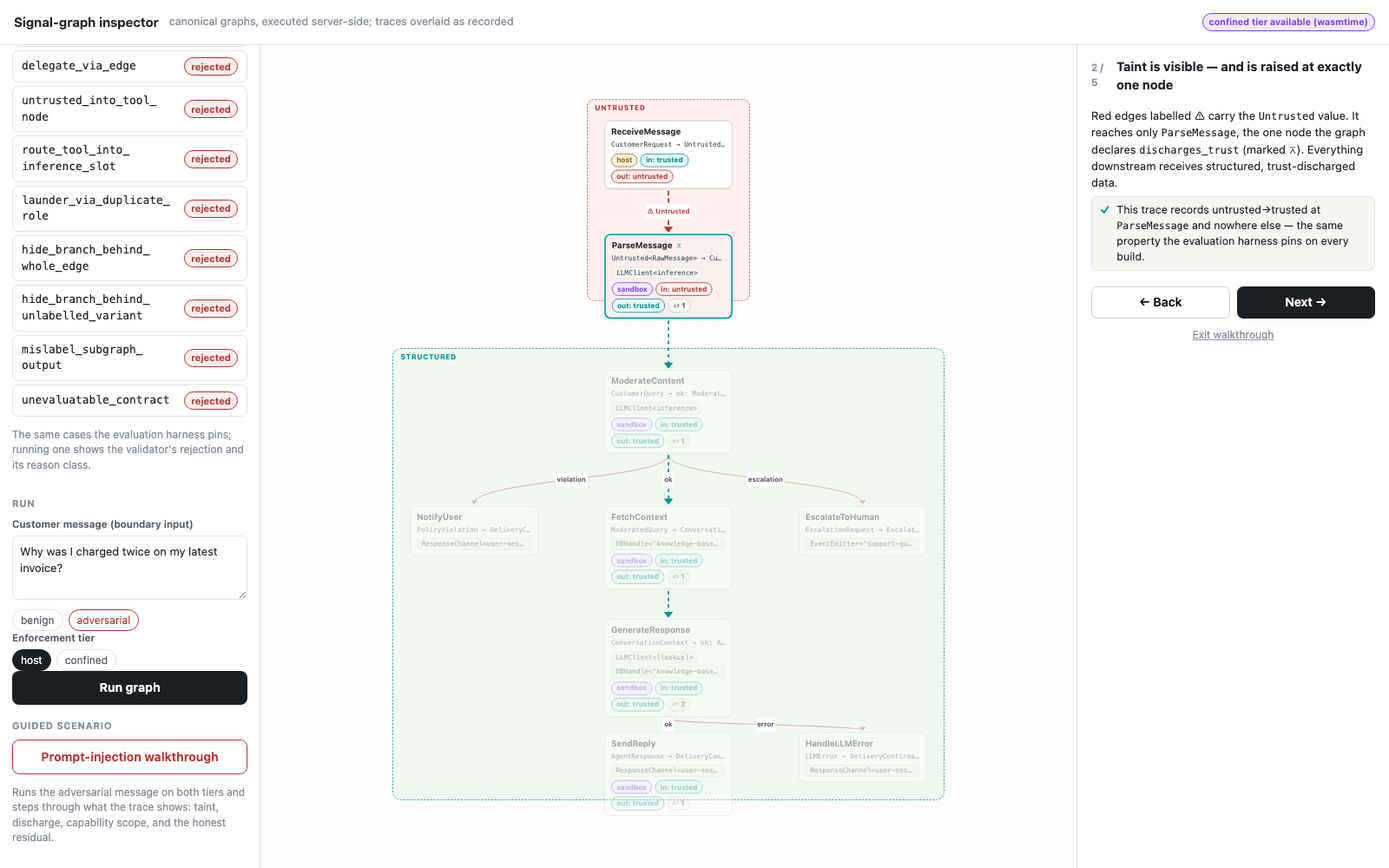
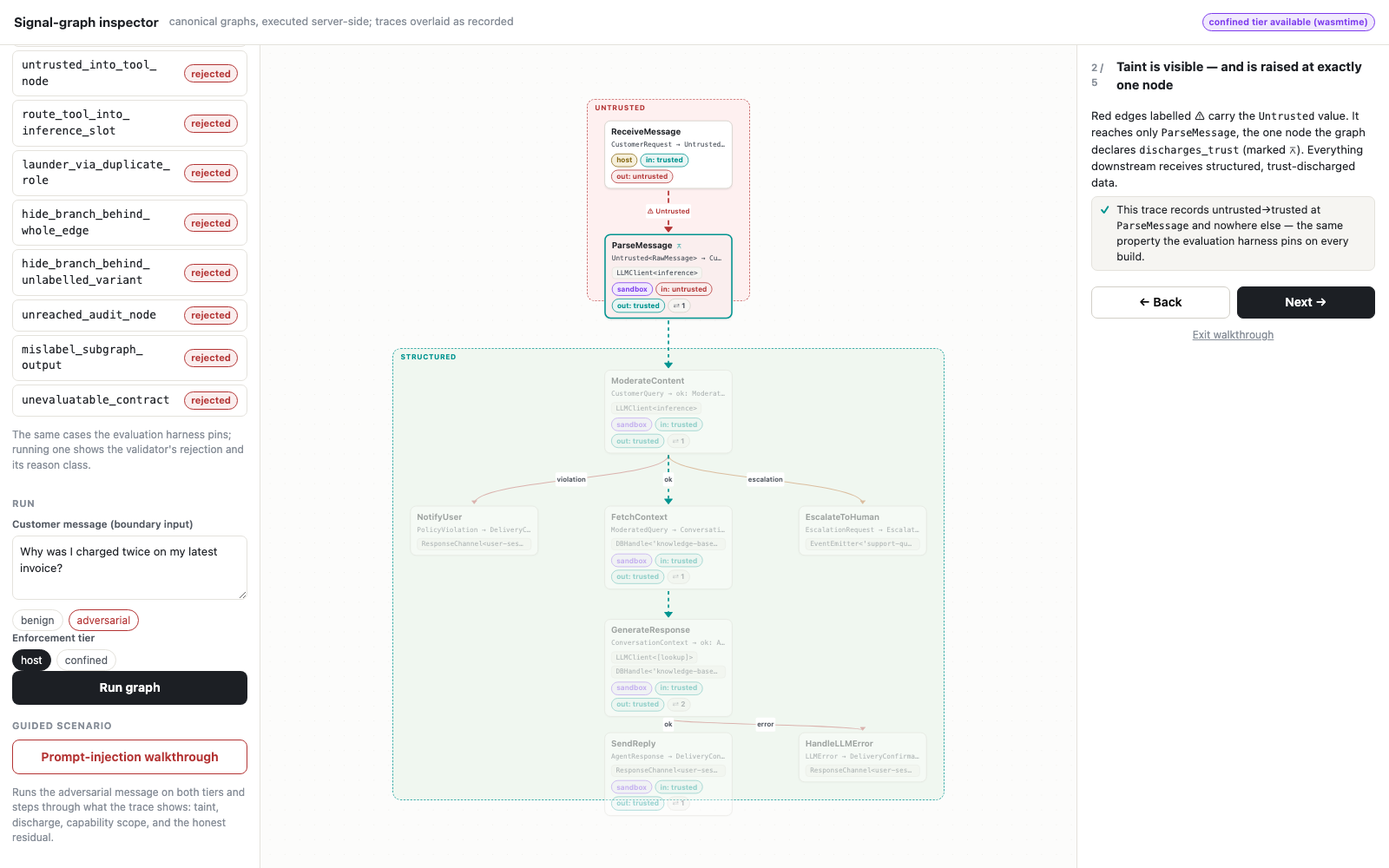
Fix review round K's artifact findings: entry by file order, and enum contracts
The runtime took the first node in file order whose input matched the
boundary type as its entry, and the validator had no notion of an entry. A
validated T -> T gate (an audit step, a filter) listed after the node it
guards was skipped silently, a node no edge reached validated and never ran,
and a boundary fan-out dropped a branch. A graph now runs from exactly one
entry, the node no edge reaches, which must take the boundary input; the
validator rejects anything else and the runtime chooses the entry the same
way. Pinned as unreached_audit_node under a new reason class, "one entry
node" (found by review).

A contract compared an Enum field raw against string literals, so no literal
ever matched `intent`: an exhaustive membership postcondition failed and
blamed the body, and `intent == 'billing_question'` was false on a billing
query. A member now compares as its value; tests use a real Intent and fail
without the fix. §3.3.3 now says "membership in a set of literals" rather than
"variant membership", and that a postcondition sees the payload, not the
variant that carried it.

Minor findings left as they are: a principal chain extended inside a
sub-graph does not reach the parent's downstream nodes (no paper claim), a
child cannot declare its own capability identities (fails loudly), and the
trace names the parent's capability type for a narrowed crossing.

Changed region(s): [[0.0, 0.062, 0.1875, 0.372]]

diff --git a/tests/test_validate_graphs.py b/tests/test_validate_graphs.py
@@ -285,6 +285,47 @@ class TestEdgesAreAPath(unittest.TestCase):
         self.assertTrue(any("form a cycle" in e for e in errors), errors)
 
 
+class TestOneEntryNode(unittest.TestCase):
+    """A graph runs from the one node no edge reaches (round K, 30 September 2026:
+    the runtime chose its entry by file order, so a validated gate listed after the
+    node it guards was skipped, and an unreached node validated and never ran)."""
+
+    def _errors(self, nodes: list[dict], edges: list[dict]) -> list[str]:
+        graph = {
+            "name": "Pipeline",
+            "parameters": ["RawInput"],
+            "capabilities": [],
+            "nodes": nodes,
+            "data_edges": edges,
+        }
+        with tempfile.TemporaryDirectory() as td:
+            return validate_files(_write({"p.json": graph}, Path(td)))
+
+    def test_a_gate_before_its_guarded_node_is_the_entry_in_any_order(self):
+        nodes = [
+            {"name": "Guarded", "inputs": ["RawInput"], "output": "Out"},
+            {"name": "Gate", "inputs": ["RawInput"], "output": "RawInput"},
+        ]
+        self.assertEqual(self._errors(nodes, [{"from": "Gate", "to": "Guarded"}]), [])
+
+    def test_two_unreached_nodes_are_rejected(self):
+        nodes = [
+            {"name": "A", "inputs": ["RawInput"], "output": "Out"},
+            {"name": "B", "inputs": ["RawInput"], "output": "Other"},
+        ]
+        errors = self._errors(nodes, [])
+        self.assertTrue(any("reached by no edge" in e for e in errors), errors)
+
+    def test_the_entry_must_take_the_boundary_input(self):
+        nodes = [
+            {"name": "A", "inputs": ["Mid"], "output": "Out"},
+            {"name": "B", "inputs": ["Out"], "output": "Done"},
+            {"name": "C", "inputs": ["RawInput"], "output": "Mid"},
+        ]
+        errors = self._errors(nodes, [{"from": "A", "to": "B"}, {"from": "B", "to": "C"}])
+        self.assertTrue(any("does not take the boundary input" in e for e in errors), errors)
+
+
 class TestCrossGraphCapabilityNarrowing(unittest.TestCase):
     def _child_graph(self, param: str) -> dict:
         return {

diff --git a/scripts/graph_validator.py b/scripts/graph_validator.py
@@ -227,6 +227,7 @@ def _validate_semantic(graph: dict, path: Path, errors: list[str]) -> dict[str, 
             errors.append(f"{path.name}: boundary data input {p!r} declared but never consumed")
 
     _validate_edges(path, node_map, caps, edges, errors)
+    _validate_entry(path, node_map, data_params, edges, errors)
     _validate_node_trust_flow(path, node_map, caps, errors)
     _validate_identities(path, node_map, caps, errors)
     _validate_layout(path, node_map, graph.get("layout", {}), errors)
@@ -292,6 +293,34 @@ def _validate_identities(
                     f"{cap_type!r} it does not hold; an identity may be declared only for "
                     f"a capability the node's `inputs` names"
                 )
+
+
+def _validate_entry(
+    path: Path,
+    node_map: dict[str, dict],
+    data_params: list[str],
+    edges: list[dict],
+    errors: list[str],
+) -> None:
+    """A graph runs from one entry: the only node no data edge reaches, taking the
+    boundary input. The runtime once took the first node in file order whose input
+    matched the boundary type, so a validated `T → T` gate (an audit step, a filter)
+    listed after the node it guards was skipped silently, and a node no edge reached
+    validated and never ran (round K, 30 September 2026). With one entry and no
+    cycle, every node is reachable from it."""
+    targets = {e["to"] for e in edges if isinstance(e, dict) and "to" in e}
+    entries = sorted(n for n in node_map if n not in targets)
+    if len(entries) != 1:
+        errors.append(
+            f"{path.name}: {len(entries)} nodes are reached by no edge ({entries}); a graph "
+            f"runs from exactly one entry node, so any other would never run"
+        )
+        return
+    if len(data_params) == 1 and data_params[0] not in node_map[entries[0]]["inputs"]:
+        errors.append(
+            f"{path.name}: entry node {entries[0]!r} does not take the boundary input "
+            f"{data_params[0]!r}"
+        )
 
 
 def _validate_edges(

diff --git a/tests/test_poc_contracts.py b/tests/test_poc_contracts.py
@@ -26,7 +26,7 @@ from poc.demo import BENIGN, STORES
 from poc.graph import AssemblyError, assemble, load_graph_dict
 from poc.llm import StubLLM
 from poc.runtime import execute
-from poc.values import CustomerRequest
+from poc.values import CustomerRequest, Intent
 
 # ── The vocabulary, and its ceiling ──────────────────────────────────────────
 
@@ -43,6 +43,28 @@ def test_the_four_permitted_forms_parse_and_evaluate():
     assert parse("intent in ['billing_question', 'refund']").holds(value)
     assert parse("present(text)").holds(value)
     assert parse("len(text) > 0").holds(value)
+
+
+def test_a_real_intent_compares_as_its_value():
+    """`intent` is an `Enum` at run time, not the string the box above holds. Compared
+    raw, no literal matched it: an exhaustive membership contract failed and blamed
+    the body, and `intent == 'billing_question'` was false on a billing query
+    (round K, 30 September 2026)."""
+    value = _Box(intent=Intent.BILLING_QUESTION)
+    every = ", ".join(f"'{i.value}'" for i in Intent)
+    assert parse(f"intent in [{every}]").holds(value)
+    assert parse("intent == 'billing_question'").holds(value)
+    assert not parse("intent != 'billing_question'").holds(value)
+    assert not parse("intent == 'unknown'").holds(value)
+
+
+def test_an_intent_contract_holds_on_a_real_run():
+    graph = load_graph_dict("customer-support")
+    for node in graph["nodes"]:
+        if node["name"] == "ParseMessage":
+            node["ensures"] = ["intent in [" + ", ".join(f"'{i.value}'" for i in Intent) + "]"]
+    assembled = assemble(graph, backend=StubLLM(), stores=STORES)
+    execute(assembled, CustomerRequest(session_id="user-session", body=BENIGN))
 
 
 def test_a_predicate_outside_the_vocabulary_is_rejected():

diff --git a/poc/evaluate.py b/poc/evaluate.py
@@ -138,6 +138,7 @@ REASON_CAPABILITY_DATA = "capability as data"
 REASON_SINK = "sink rule"
 REASON_SUM_ROLE = "one variant per port"
 REASON_VARIANT = "variant completeness"
+REASON_ENTRY = "one entry node"
 
 # A reason class is identified by phrases, *any* of which in one of the
 # validator's errors places that error in the class; each phrase is specific to
@@ -154,6 +155,7 @@ REASON_SIGNATURES: dict[str, tuple[str, ...]] = {
     # A port names exactly one variant, and every variant of a labelled sum has one.
     REASON_SUM_ROLE: ("duplicate variant role", "has no port to leave on"),
     REASON_VARIANT: ("whole-output edge never fires", "but no edge consumes it"),
+    REASON_ENTRY: ("are reached by no edge", "does not take the boundary input"),
     REASON_CROSS_GRAPH: (
         "declared output",
         "terminal output types",
@@ -311,6 +313,16 @@ CORPUS: tuple[Case, ...] = (
         "The same swallowed violation by another spelling: `ModerateContent`'s violation "
         "variant loses its role, so no port carries it and variant completeness, which "
         "sweeps roles, never saw it. The type parser rejects a partly labelled sum.",
+        found_by_review=True,
+    ),
+    Case(
+        "unreached_audit_node",
+        "mutation",
+        REJECTED,
+        REASON_ENTRY,
+        "A second node takes the boundary input and no edge reaches it. The runtime "
+        "chose its entry by file order, so one of the two was skipped silently; a graph "
+        "runs from exactly one entry node, which every other node is reached from.",
         found_by_review=True,
     ),
     Case(

diff --git a/poc/variants.py b/poc/variants.py
@@ -203,6 +203,25 @@ def hide_branch_behind_unlabelled_variant(graph: dict) -> dict:
     return g
 
 
+def unreached_audit_node(graph: dict) -> dict:
+    """A second node taking the boundary input, reached by no edge.
+
+    `AuditRequest` consumes the raw `CustomerRequest` beside `ReceiveMessage`. Every
+    edge type-checks, and the runtime chose its entry by file order, so it ran
+    whichever of the two came first and silently skipped the other — an audit step
+    listed after the node it guards never ran, and nothing said so. A graph runs
+    from exactly one entry node."""
+    g = copy.deepcopy(graph)
+    g["nodes"].append(
+        {
+            "name": "AuditRequest",
+            "inputs": ["CustomerRequest", "EventEmitter<'support-queue'>"],
+            "output": "EscalationTicket",
+        }
+    )
+    return g
+
+
 def mislabel_subgraph_output(platform: dict) -> dict:
     """Make a sub-graph node lie about what it emits at its boundary.
 
@@ -256,6 +275,7 @@ UNSAFE_VARIANTS = {
     "launder_via_duplicate_role": launder_via_duplicate_role,
     "hide_branch_behind_whole_edge": hide_branch_behind_whole_edge,
     "hide_branch_behind_unlabelled_variant": hide_branch_behind_unlabelled_variant,
+    "unreached_audit_node": unreached_audit_node,
     "mislabel_subgraph_output": mislabel_subgraph_output,
     "unevaluatable_contract": unevaluatable_contract,
 }

diff --git a/poc/runtime.py b/poc/runtime.py
@@ -315,15 +315,24 @@ def _run_subgraph(
 
 
 def _entry_node(graph: AssembledGraph) -> Node:
-    """The node that consumes the graph's boundary data parameter."""
+    """The graph's one entry: the node no edge reaches, which takes the boundary
+    data parameter. Chosen by the edges, never by file order, which once let a
+    validated gate listed after the node it guards be skipped."""
     data_params = [p for p in graph.parameters if p not in graph.capabilities]
     if len(data_params) != 1:
         raise ExecutionError(f"expected exactly one boundary data parameter, got {data_params}")
     boundary = data_params[0]
-    for node in graph.nodes.values():
-        if graph.data_input_type(node) == boundary:
-            return node
-    raise ExecutionError(f"no node consumes boundary input {boundary!r}")
+    targets = {e.dst_node for e in graph.edges}
+    entries = [n for name, n in graph.nodes.items() if name not in targets]
+    if len(entries) != 1:
+        raise ExecutionError(
+            f"expected exactly one entry node, got {sorted(n.name for n in entries)}"
+        )
+    if graph.data_input_type(entries[0]) != boundary:
+        raise ExecutionError(
+            f"entry node {entries[0].name!r} does not consume boundary input {boundary!r}"
+        )
+    return entries[0]
 
 
 def execute(

diff --git a/poc/contracts.py b/poc/contracts.py
@@ -32,6 +32,7 @@ from __future__ import annotations
 
 import re
 from dataclasses import dataclass
+from enum import Enum
 
 # Blame: which side a violation indicts. A contract that says only "something is
 # wrong" is much less useful than one that says which of the two parties to a
@@ -122,6 +123,12 @@ def _resolve(value: object, path: str) -> object:
             if not hasattr(current, part):
                 return _MISSING
             current = getattr(current, part)
+    # A closed-set field is an Enum at run time, and a contract literal is a string,
+    # so compared raw, no literal ever matched: an exhaustive `intent in [...]` came
+    # out false and blamed the body (round K, 30 September 2026). A member compares
+    # as its value, which is how the graph and the WIT enum both spell it.
+    if isinstance(current, Enum):
+        return current.value
     return current
 
 

diff --git a/tests/test_poc_runtime.py b/tests/test_poc_runtime.py
@@ -150,5 +150,6 @@ def test_a_value_no_edge_carries_is_refused_not_dropped():
     swallowed silently (round J, 30 September 2026). It is now refused."""
     graph = assemble(load_graph_dict("customer-support"), backend=StubLLM(), stores=STORES)
     graph.edges = [e for e in graph.edges if e.src_port != "violation"]
+    del graph.nodes["NotifyUser"]  # else it is a second entry, refused before the run
     with pytest.raises(ExecutionError, match="no edge carries"):
         execute(graph, CustomerRequest(session_id="user-session", body="about self-harm"))

diff --git a/AGENTS.md b/AGENTS.md
@@ -49,7 +49,7 @@ This is primarily a **writing project**: the papers are the outputs that matter.
 | `poc/inspector_api.py` | The graph inspector's execution API: a stdlib HTTP layer over the existing runtime (serves `graphs/*.json` byte-for-byte, runs corpus cases, returns traces / classified rejections, drives the injection scenario). Transport, not semantics. |
 | `ui/` | The graph inspector (Next.js): renders the canonical graphs, triggers real both-tier runs server-side, overlays traces. **Inspector, not editor** — it cannot author graphs. Own lockfile; never touched by `make build`. See `ui/README.md`. |
 | `.pre-commit-config.yaml` | Pre-commit hooks (ruff, graph validation, pytest, `make build`, citation check, freeze guard, hedge guard). Install once per clone with `uv run pre-commit install`. |
-| `poc/contracts.py` | The contract language: a **closed** predicate vocabulary (comparison, variant membership, presence, `len`) with Design-by-Contract **blame** (Meyer; carried to higher-order values by Racket's contracts) — a failed `requires` indicts the wiring, a failed `ensures` the body. The ceiling is the design; widening it needs a solver and forfeits the dependency-free checker. |
+| `poc/contracts.py` | The contract language: a **closed** predicate vocabulary (comparison, set membership, presence, `len`; an `Enum` field compares as its value) with Design-by-Contract **blame** (Meyer; carried to higher-order values by Racket's contracts) — a failed `requires` indicts the wiring, a failed `ensures` the body. The ceiling is the design; widening it needs a solver and forfeits the dependency-free checker. |
 | `scripts/` | Build support: graph generator, pandoc cross-ref filter, markdown/html cleanup, citation checker, freeze guard, hedge guard. |
 
 ## The living paper's structure
@@ -99,7 +99,7 @@ Although this is a writing project, the paper ships with a working, tested PoC t
 - **Evaluation harness** (`poc/evaluate.py`) — runs the demonstrator's own evidence and emits **`dist/evaluation.md`** on every build, the way `dist/grammar.md` is emitted from the parser: the **graph-to-binary derivation** (per ported node: the interface set derived from its `with` clause vs what the built component imports — the lead claim, reported as a figure and not only asserted in `test_poc_sandbox.py`; it also carries one row from `FEED_PULSE_GRAPH`, which does not ship, because that is what puts the three I/O kinds through the gate, and rows are marked shipped vs not. **Coverage is reported as `kinds_covered`, computed from the rows — never as `len(CAPABILITY_KINDS)`, which is the size of the mapping table and states what the derivation *could* map rather than what it has been held against a binary for; `EventEmitter` is currently mapped but unexercised, and the paper says so**), the graph-mutation corpus, the overhead measurement, and the prompt-injection outcome on both tiers, consolidated into one artifact a paper can cite. An over-granting *or* under-importing component fails the build here, not just in the suite. Because every reported row necessarily agrees, the gate is also shown **rejecting a real binary**: `NEGATIVE_CONTROLS` holds `hostile_ungranted` (built with `ParseMessage`'s signature plus a `kb-read` import) to `ParseMessage`'s clause and pins it to be caught for exactly that interface — a gate that stopped firing fails the build. It *imports* the corpus/bench/demo rather than re-deriving them. Crucially it is a **regression guard, not a report**: each corpus case pins the verdict it must produce *and the reason class it must be caught by* (`launder_trust` must be caught by the trust lattice, not as an edge type mismatch — a pass/fail pin would stay green if that regressed), and any divergence fails the build without rewriting the artifact. The corpus pins itself against silent growth too: adding an `UNSAFE_VARIANTS` entry without pinning it is an error, not an uncounted pass. The canonical graphs are corpus cases in their own right — a validator that rejected everything would catch every unsafe wiring and be worthless. The artifact states that the corpus is **curated and illustrative** (counts, not a soundness claim) and reports the host tier's escapes as the recorded gap beside the sandbox tier's confinement. This is the one build step that is **not** stdlib-only: it needs `wasmtime`, so `make build` runs it via `uv run --group poc` (installed on demand; no CI change needed).
 - **Overhead measurement** — `poc/sandbox/bench.py` (`uv run --group poc python -m poc.sandbox.bench`) reports component compilation, per-node instantiation, and per-capability-crossing cost against the envelope stated in the paper. Current numbers: a crossing costs **tens of µs** (~25µs; well inside the <1ms envelope) *even though every crossing now lifts/lowers typed WIT values*; instantiation tens of µs; compilation a one-time few ms. **Do not compare these to the pre-component figures**: the benchmark's timing loop was fixed at the same time (it now warms and takes the best of several rounds; it previously timed a single cold pass, which charged JIT warm-up to whatever it measured first — and since the crossing cost is a *difference* of two timings, that could distort it by an order of magnitude). No like-for-like flat-ABI measurement exists (the old figure came from the cold-pass loop, which could be off by a decade either way), so the only supported claim is that the typed crossing sits inside the envelope — not what typing it cost. **The figure is pinned to a band** (`CROSSING_BAND_MIN_MS`/`MAX_MS` in `poc/evaluate.py`, 5–100µs): correcting the timing loop bounded the cold-pass fault but did not remove the fragility, and a contended machine still differences its way to a figure a decade too large — one build wrote **343µs** where the same code writes ~25µs, and nothing caught it because `within_envelope` (<1ms) passed. `measure_within_band()` re-measures a transient excursion and a sustained one fails the build. The ceiling is a decade boundary and the band half-open there, so a measurement that passes names single-digit or tens of microseconds, never hundreds; the paper interpolates whichever it is. **Never hand-type that magnitude in a paper either** — "tens of microseconds" is a claim about the measurement exactly as "25µs" is; use `#d.crossing_magnitude`, which `serialise()` derives from the same run.
 - **Graph inspector** (`ui/` + `poc/inspector_api.py`) — a web inspector reported in Paper 2 §3: renders the canonical graph JSON served **byte-for-byte** (a contract test pins parity), executes runs server-side through the same `assemble`/`execute` path as the tests, and overlays the returned trace (per-node tier, edge trust labels, crossings with instance names, nested sub-graph drill-down). The evaluation corpus's mutation cases are runnable and display the validator's rejection with its **pinned reason class**; a guided prompt-injection walkthrough mirrors §4.4's language (attenuation, not elimination; host tier = shape, not enforcement). It is an **inspector, not the predicted visual editor** — §5's verdict is *not attempted* (an earlier draft's *partial* was the demo flattering the prediction), and authoring (validator-in-the-loop editing) is future work (§8); never let paper prose upgrade this. Claims discipline: every paper-asserted behavior maps to a Python contract test (`tests/test_poc_inspector_api.py`) or a Playwright e2e check (`ui/e2e/`); the e2e run regenerates the committed `ui/screenshots/*.png`, which `make build` copies into `dist/ui/` for the paper figure with plain `cp` — **Node is never needed by the corpus build** (verified by building with `node`/`npm`/`npx` shimmed to fail). Run with `make ui` (API + dev server), check with `make ui-check` / `make ui-e2e`.
-- **Tests** — `tests/` is a pytest suite covering the parser, the validator, the runtime, both enforcement tiers, the execution trace (`test_poc_trace.py`), the evaluation harness, the inspector API's contract (`test_poc_inspector_api.py`), the hedge guard's failure path (`test_check_hedges.py`), the freeze guard's, including that its reference is reachable from HEAD (`test_check_freeze.py`), and the pandoc cross-reference filter (`test_resolve_crossrefs.py`, skipped without pandoc): **400 tests + 21 subtests, all passing** (`make test` or `uv run pytest`; run with `--group poc` to include the sandbox-gated tests — 58 in `test_poc_sandbox.py`, 19 in `test_poc_evaluate.py`, and 2 in `test_poc_inspector_api.py` — which otherwise skip). The validator and parser stay dependency-free so the pre-commit hook remains portable; the runtime's optional dependencies (Anthropic SDK for `--live`, `wasmtime` for the sandbox tier) live in the `poc` dependency group (`uv sync --group poc`) and must never leak into `scripts/` — which is why the evaluation harness lives in `poc/`, not `scripts/`.
+- **Tests** — `tests/` is a pytest suite covering the parser, the validator, the runtime, both enforcement tiers, the execution trace (`test_poc_trace.py`), the evaluation harness, the inspector API's contract (`test_poc_inspector_api.py`), the hedge guard's failure path (`test_check_hedges.py`), the freeze guard's, including that its reference is reachable from HEAD (`test_check_freeze.py`), and the pandoc cross-reference filter (`test_resolve_crossrefs.py`, skipped without pandoc): **407 tests + 21 subtests, all passing** (`make test` or `uv run pytest`; run with `--group poc` to include the sandbox-gated tests — 58 in `test_poc_sandbox.py`, 19 in `test_poc_evaluate.py`, and 2 in `test_poc_inspector_api.py` — which otherwise skip). The validator and parser stay dependency-free so the pre-commit hook remains portable; the runtime's optional dependencies (Anthropic SDK for `--live`, `wasmtime` for the sandbox tier) live in the `poc` dependency group (`uv sync --group poc`) and must never leak into `scripts/` — which is why the evaluation harness lives in `poc/`, not `scripts/`.
 - **Build outputs** — `make build` produces the whole corpus under `dist/papers/<id>/proposal.{pdf,md,html}` (each with the figures it references), the shared rendered graph/diagram SVGs, `dist/grammar.md`, `dist/evaluation.md`, and deprecated `dist/proposal.{pdf,md,html}` aliases to Paper 2 for one link-migration transition. Each paper's PDF is also emitted under its citable publication name (`lavi-<year>-<slug>.pdf` — Paper 1: `lavi-2026-architecture-as-program.pdf`, published; Paper 2: `lavi-2026-confinement-by-construction.pdf`, year provisional until it publishes); that copy is what gets uploaded to venues, while internal names stay `proposal.*`. `dist/` is gitignored. Living papers reference the shared figures root-absolutely (`/dist/...`, compiled with `typst --root`); the frozen paper reads its own figure tree through the committed `papers/01-vision/dist` symlink.
 - **Citation hygiene** — paper-aware. `scripts/check-citations.py` treats a bib entry as used if *any* paper cites it (over the shared `citations.bib`); `scripts/validate-bib.py` is available for manual checks (it runs in neither the build nor CI, and its fuzzy matching can fail on noise). Every citation must resolve (Typst errors on broken refs per paper). `scripts/check-freeze.py` guards the frozen paper against silent edits (its sources against the freeze commit, and its served artifacts against `PUBLISHED.json`), and `scripts/check-hedges.py` guards the living papers' pinned unproven claims against losing the qualification that bounds them — a regression guard over the passages it pins, not over the discipline (see "When editing the proposal"). Both run in `make build` and pre-commit; the hedge guard is stdlib-only, like the validator, so the hook stays portable.
 

diff --git a/openspec/changes/prepare-paper-2-publication/tasks.md b/openspec/changes/prepare-paper-2-publication/tasks.md
@@ -123,6 +123,13 @@
       snapshotting joined to replay); the ambient-authority correction restated as the
       substrate's failure, not the sentence's, and the aggregation correction as the alias
       convention's; Fuchsia's component framework cited in §6.2
+- [x] 6.26 The runtime chose its entry node by file order, so a validated gate listed after
+      the node it guards was skipped and an unreached node never ran; a graph now has exactly
+      one entry, the node no edge reaches, taking the boundary input (validator and runtime;
+      `unreached_audit_node` pinned). A contract compared an `Enum` field raw against string
+      literals, so membership over `intent` was always false and blamed the body; a member now
+      compares as its value. §3.3.3 says "set membership" and that a postcondition cannot
+      see which variant was emitted
 
 ## 7. Publication (handed over from `merge-and-condense-papers`, 30 September 2026)
 
